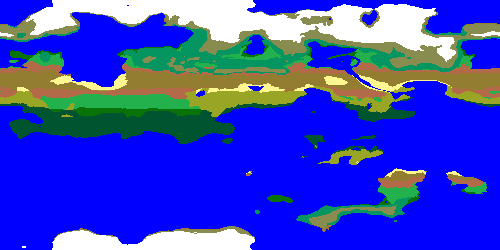
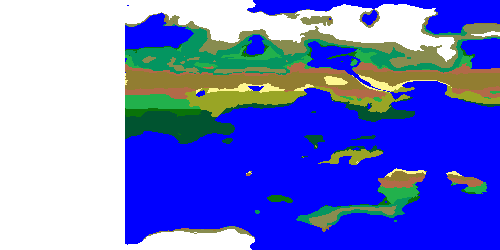
Added multithreading

Changed region(s): [[0.0, 0.0, 0.27, 1.0]]

diff --git a/scripts/RootControler.cs b/scripts/RootControler.cs
@@ -1,4 +1,5 @@
 using System;
+using System.Collections.Generic;
 using System.Diagnostics;
 using Godot;
 
@@ -7,6 +8,7 @@ public class RootControler : Node {
 	[Export] private string EARTH_IMAGE_PATH = "assets/earth.png";
 	[Export] private string IMAGE_SAVE_NAME = "map.png";
 	[Export] private bool USE_EARTH_IMAGE = false;
+	[Export] private int THREADS = 4;
 
 	private Weltschmerz weltschmerz;
 	private TextureRect canvas;
@@ -23,6 +25,7 @@ public class RootControler : Node {
 	private FileDialog saveasDialog;
 	private AcceptDialog saveDialog;
 
+	//Scenes with configuration
 	private PackedScene generalConfig;
 	private PackedScene elevationConfig;
 	private PackedScene temperatureConfig;
@@ -35,6 +38,8 @@ public class RootControler : Node {
 
 	private String currentConfigPath;
 	private String currentDirectoryPath;
+
+	private Thread generationThread;
 
 	// Called when the node enters the scene tree for the first time.
 	public override void _Ready () {
@@ -136,14 +141,16 @@ public class RootControler : Node {
 	}
 
 	private void SelectMap (int id) {
+
+		if (generationThread != null) {
+			generationThread.WaitToFinish ();
+		}
+
 		foreach (Node node in parent.GetChildren ()) {
 			if (node.Name.Equals ("Children")) {
 				parent.RemoveChild (node);
 			}
 		}
-
-		Stopwatch stopwatch = new Stopwatch ();
-		stopwatch.Start ();
 
 		if (useEarth.Pressed) {
 			Image map = IOManager.LoadImage (EARTH_IMAGE_PATH);
@@ -152,49 +159,80 @@ public class RootControler : Node {
 
 			ImageElevationGenerator generator = new ImageElevationGenerator (map, weltschmerz, config);
 			weltschmerz.ElevationGenerator = generator;
-			weltschmerz.Update();
+			weltschmerz.Update ();
 		} else {
 			Elevation noise = new Elevation (weltschmerz, config);
 			weltschmerz.ElevationGenerator = noise;
-			weltschmerz.Update();
+			weltschmerz.Update ();
 		}
 
 		map = new Image ();
 		map.Create (config.map.longitude, config.map.latitude, false, biomMap.GetFormat ());
-		double maxTemperature = Math.Abs (config.temperature.min_temperature) + config.temperature.max_temperature;
-
 		map.Lock ();
+
+		generationThread = new Thread ();
 
 		switch (id) {
 			case 0:
 				parent.AddChild (generalConfig.Instance ());
-				GenerateBiomeMap ();
 				break;
 			case 1:
 				parent.AddChild (elevationConfig.Instance ());
-				GenerateElevationMap ();
 				break;
 			case 2:
 				parent.AddChild (temperatureConfig.Instance ());
-				GenerateTemperatureMap ();
 				break;
 			case 3:
 				parent.AddChild (humidityConfig.Instance ());
-				GenerateEvapotranspirationMap ();
 				break;
 			case 4:
 				parent.AddChild (circulationConfig.Instance ());
-				GenerateHumidityMap ();
 				break;
 			case 5:
 				parent.AddChild (precipitationConfig.Instance ());
-				GeneratePrecipitationMap ();
 				break;
 		}
 
-		map.Unlock ();
-		stopwatch.Stop ();
+		generationThread.Start (this, nameof (InitThreads), id);
+	}
 
+	private void InitThreads (int id) {
+		List<Thread> threads = new List<Thread> ();
+		Stopwatch stopwatch = new Stopwatch ();
+		stopwatch.Start ();
+
+		for (int t = 1; t < THREADS; t++) {
+			Thread thread = new Thread ();
+			threads.Add (thread);
+			switch (id) {
+				case 0:
+					thread.Start (this, nameof (GenerateBiomeMap), t);
+					break;
+				case 1:
+					thread.Start (this, nameof (GenerateElevationMap), t);
+					break;
+				case 2:
+					thread.Start (this, nameof (GenerateTemperatureMap), t);
+					break;
+				case 3:
+					thread.Start (this, nameof (GenerateEvapotranspirationMap), t);
+					break;
+				case 4:
+					thread.Start (this, nameof (GenerateHumidityMap), t);
+					break;
+				case 5:
+					thread.Start (this, nameof (GeneratePrecipitationMap), t);
+					break;
+			}
+		}
+
+		foreach (Thread thread in threads) {
+			thread.WaitToFinish ();
+		}
+
+		map.Unlock ();
+
+		stopwatch.Stop ();
 		GD.Print ("Finished in:" + stopwatch.Elapsed.TotalSeconds);
 
 		ImageTexture texture = new ImageTexture ();
@@ -210,15 +248,16 @@ public class RootControler : Node {
 		}
 	}
 
-	private void GenerateBiomeMap () {
-
-		for (int x = 0; x < config.map.longitude; x++) {
+	private void GenerateBiomeMap (int t) {
+		int width = config.map.longitude / THREADS;
+		for (int x = 0; x < width; x++) {
+			int posX = x + (width * t);
 			for (int y = 0; y < config.map.latitude; y++) {
 
-				double elevation = weltschmerz.GetElevation (x, y);
+				double elevation = weltschmerz.GetElevation (posX, y);
 				double temperature = weltschmerz.TemperatureGenerator.GetTemperature (y, elevation);
 
-				double precipitation = weltschmerz.PrecipitationGenerator.GetPrecipitation (x, y, elevation, temperature) / 4;
+				double precipitation = weltschmerz.PrecipitationGenerator.GetPrecipitation (posX, y, elevation, temperature) / 4;
 
 				precipitation = (biomMap.GetWidth () * precipitation) / biomMap.GetHeight ();
 
@@ -230,78 +269,83 @@ public class RootControler : Node {
 				temperature = Math.Min (Math.Max (temperature, 0), biomMap.GetWidth () - 1);
 				precipitation = Math.Min (Math.Max (precipitation, 0), temperature);
 
-				int posY = (int) precipitation;
-				int posX = (int) temperature;
-
 				if (!weltschmerz.ElevationGenerator.IsLand (elevation)) {
-					map.SetPixel (x, y, new Color (0, 0, 1, 1));
+					map.SetPixel (posX, y, new Color (0, 0, 1, 1));
 				} else {
-					map.SetPixel (x, y, biomMap.GetPixel (posX, posY));
+					map.SetPixel (posX, y, biomMap.GetPixel ((int) temperature, (int) precipitation));
 				}
 			}
 		}
 		IOManager.SaveImage ("./", IMAGE_SAVE_NAME, map);
 	}
 
-	private void GenerateElevationMap () {
-		bool earth = useEarth.Pressed;
-		for (int x = 0; x < config.map.longitude; x++) {
+	private void GenerateElevationMap (int t) {
+		int width = config.map.longitude / THREADS;
+		for (int x = 0; x < width; x++) {
+			int posX = x + (width * t);
 			for (int y = 0; y < config.map.latitude; y++) {
-				float elevation = (float) weltschmerz.GetElevation (x, y) / (config.elevation.max_elevation - config.elevation.min_elevation);
-				map.SetPixel (x, y, new Color (elevation, elevation, elevation, 1f));
+				float elevation = (float) weltschmerz.GetElevation (posX, y) / (config.elevation.max_elevation - config.elevation.min_elevation);
+				map.SetPixel (posX, y, new Color (elevation, elevation, elevation, 1f));
 			}
 		}
 	}
 
-	private void GenerateDensityMap () {
-		bool earth = useEarth.Pressed;
-		for (int x = 0; x < config.map.longitude; x++) {
+	private void GenerateDensityMap (int t) {
+		int width = config.map.longitude / THREADS;
+		for (int x = 0; x < width; x++) {
+			int posX = x + (width * t);
 			for (int y = 0; y < config.map.latitude; y++) {
-				double elevation = weltschmerz.GetElevation (x, y);
-				float pressure = (float) (weltschmerz.CirculationGenerator.GetAirPressure (x, y, elevation) / 1000000);
-				map.SetPixel (x, y, new Color (0, pressure, 0, 1f));
+				double elevation = weltschmerz.GetElevation (posX, y);
+				float pressure = (float) (weltschmerz.CirculationGenerator.GetAirPressure (posX, y, elevation) / 1000000);
+				map.SetPixel (posX, y, new Color (0, pressure, 0, 1f));
 			}
 		}
 	}
 
-	private void GenerateTemperatureMap () {
+	private void GenerateTemperatureMap (int t) {
+		int width = config.map.longitude / THREADS;
 		float minTemperature = Math.Abs (config.temperature.min_temperature);
 		float maxTemperature = minTemperature + config.temperature.max_temperature;
-		for (int x = 0; x < config.map.longitude; x++) {
-			for (int y = 0; y < config.map.latitude; y++) {
-				float temperature = ((float) weltschmerz.GetTemperature (x, y) + minTemperature) / maxTemperature;
-				map.SetPixel (x, y, new Color (temperature, 0, 0, 1f));
+		for (int x = 0; x < width; x++) {
+			int posX = x + (width * t);
+			for (int y = 0; y <  config.map.latitude; y++) {
+				float temperature = ((float) weltschmerz.GetTemperature (posX, y) + minTemperature) / maxTemperature;
+				map.SetPixel (posX, y, new Color (temperature, 0, 0, 1f));
 			}
 		}
 	}
 
-	private void GenerateEvapotranspirationMap () {
-		float minTemperature = Math.Abs (config.temperature.min_temperature);
-		float maxTemperature = minTemperature + config.temperature.max_temperature;
-		for (int y = 0; y < config.map.latitude; y++) {
-			for (int x = 0; x < config.map.longitude; x++) {
-				double elevation = weltschmerz.GetElevation (x, y);
+	private void GenerateEvapotranspirationMap (int t) {
+		int width = config.map.longitude / THREADS;
+		for (int x = 0; x < width; x++) {
+			int posX = x + (width * t);
+			for (int y = 0; y < config.map.latitude; y++) {
+				double elevation = weltschmerz.GetElevation (posX, y);
 				float moisture = (float) weltschmerz.PrecipitationGenerator.GetEvapotranspiration (y, weltschmerz.ElevationGenerator.IsLand (elevation)) / config.precipitation.max_precipitation;
-				map.SetPixel (x, y, new Color (0, 0, moisture, 1f));
+				map.SetPixel (posX, y, new Color (0, 0, moisture, 1f));
 			}
 		}
 	}
 
-	private void GenerateHumidityMap () {
-		for (int x = 0; x < config.map.longitude; x++) {
+	private void GenerateHumidityMap (int t) {
+		int width = config.map.longitude / THREADS;
+		for (int x = 0; x < width; x++) {
+			int posX = x + (width * t);
 			for (int y = 0; y < config.map.latitude; y++) {
-				double elevation = weltschmerz.GetElevation (x, y);
-				float humidity = (float) weltschmerz.PrecipitationGenerator.GetHumidity (x, y, elevation) / config.precipitation.max_precipitation;
-				map.SetPixel (x, y, new Color (0, 0, humidity, 1f));
+				double elevation = weltschmerz.GetElevation (posX, y);
+				float humidity = (float) weltschmerz.PrecipitationGenerator.GetHumidity (posX, y, elevation) / config.precipitation.max_precipitation;
+				map.SetPixel (posX, y, new Color (0, 0, humidity, 1f));
 			}
 		}
 	}
 
-	private void GeneratePrecipitationMap () {
-		for (int x = 0; x < config.map.longitude; x++) {
+	private void GeneratePrecipitationMap (int t) {
+		int width = config.map.longitude / THREADS;
+		for (int x = 0; x < width; x++) {
+			int posX = x + (width * t);
 			for (int y = 0; y < config.map.latitude; y++) {
-				float precipitation = ((float) weltschmerz.GetPrecipitation (x, y)) / config.precipitation.max_precipitation;
-				map.SetPixel (x, y, new Color (0, 0, precipitation, 1f));
+				float precipitation = ((float) weltschmerz.GetPrecipitation (posX, y)) / config.precipitation.max_precipitation;
+				map.SetPixel (posX, y, new Color (0, 0, precipitation, 1f));
 			}
 		}
 	}
